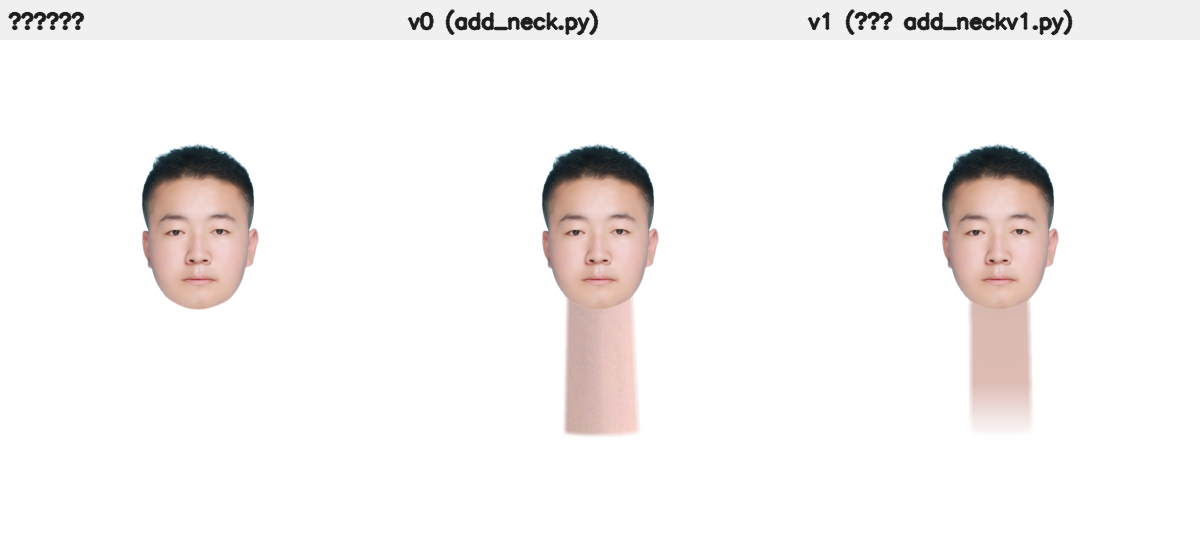
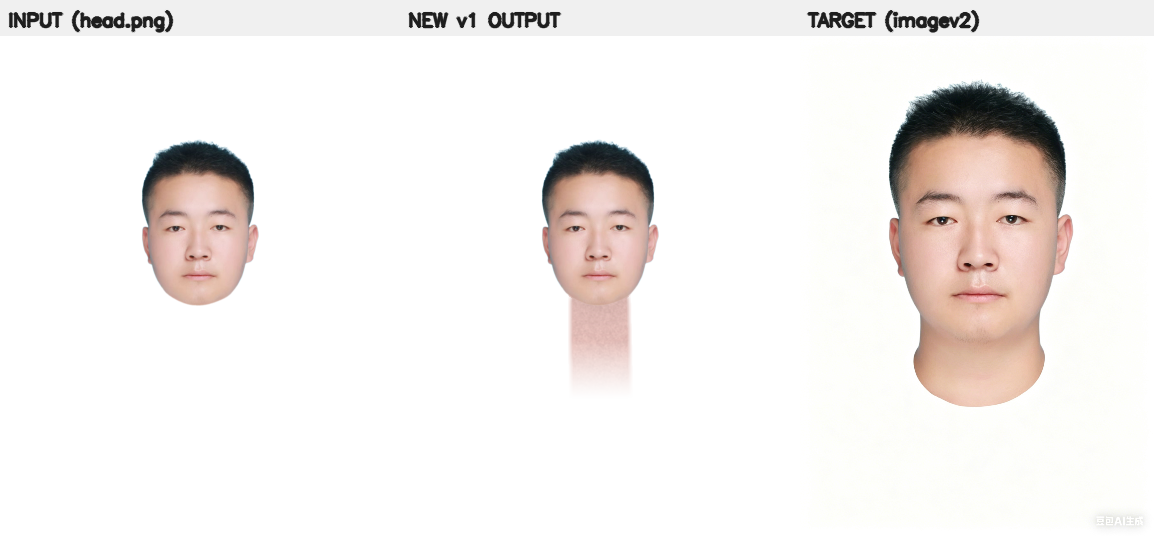
neck v1: 用 head.png+imagev2.png debug，量化对齐目标后修一系列问题
用户提供 imagev2.png 作 ground truth，量化分析 imagev2 脖子色 / 纹理强度后定位 7 个具体 bug：

(1) 颜色：用户期望脖子≈imagev2 [185,203,240]，但之前我把 anchor 全压在下颌上
    → BGR=[149,158,188] 太暗。改 NECK_ANCHOR_LANDMARKS 为颊主导:
    L颊32% + R颊32% + 人中16% + 下巴上10% + 下巴尖10%（颌角去掉）。

(2) ref pool 含下颌角拉低均值 → 新增 NECK_REF_POOL_LANDMARKS：双颊+人中+颊上+人中
    （不含下巴/下颌角）。Reinhard mean shift 拉到颊色而非颊+暗颌混合的偏暗均值。

(3) v_scale 0.92 太暗 + Reinhard 0.85 不够强 → v_scale 改 1.0（直接用实测下颌色）+
    Reinhard 强度 1.0（完全对齐颊色）。

(4) detail 被 mean-match 的 GaussianBlur 'mask 外 0 值渗入' bug 砍到 ±12 截顶
    → 新增 _masked_gaussian_blur（只考虑 mask 内像素的 Gaussian 卷积）。

(5) face_detail_tile 镜像平铺 72px tile 把脸颊上的眼角/鼻翼阴影也带进 detail
    → 新加 quilt_method='noise' 默认走 1/f pink noise（add_neck.py 已有），
    频谱接近真实皮肤毛孔但完全没有脸结构污染。tile/patchquilt 留作 advanced。

(6) 关键 bug：sigma 被 GRAIN_SIGMA_MAX=4.0 钳掉
    add_neck.GRAIN_SIGMA_MAX 是给 grain 用的小常量；v1 noise 模式 clip 到那里就成
    了微弱噪声，detail std 实际只 ~5 而非预期 12。改用 v1 自己的合理 clip [1, 60]。

(7) 关键 bug：Pitié 把 detail std 平摊到 ref 的低 std → noise 被抹掉
    Pitié 完整 PDF transfer 会把 src std 替换为 ref std（ref pool std~5），detail 的
    std=12 被压到 5。改用 _reinhard_mean_shift_inplace（只动 mean、保留 std），
    detail 完整透过。Pitié 函数保留作 advanced option。

(8) 3 通道独立 noise 产生彩虹色斑 → 改为 3 通道共享同一灰度噪声（带轻微 RGB 色相
    波动 ×0.95/1.00/1.05）。真实皮肤纹理本质就是 luminance 变化（毛孔深浅），不是
    各 RGB 通道独立漂移。

(9) sigma=22 + alpha=1 让 noise 出现可见砂砾感 → sigma=8 + alpha=0.5（更高频的
    1/f^0.5 频谱）+ blur 1.2px 让纹理更细腻。

其他配套：
- AO 强度 -3% → -8%（imagev2 实测 chin+15% 比 chin+50% 暗 ~10%）
[…]

diff --git a/neck/add_neckv1.py b/neck/add_neckv1.py
@@ -51,6 +51,7 @@ try:
         NECK_HUE_SHIFT_DEFAULT, NECK_SAT_SCALE_DEFAULT, odd_kernel,
         estimate_existing_neck_extent_px, COLLAR_DETECT_MIN_FRAC, COLLAR_DEPTH_SHRINK_MIN_PX,
         detect_face_with_retry, _detect_first_face, alpha_over, render_skin_sample_marked_preview,
+        generate_pink_noise_2d, GRAIN_SIGMA_MIN, GRAIN_SIGMA_MAX,
     )
 except ImportError:  # 直接 `python add_neckv1.py` 时 cwd 是 neck/，无 neck 包
     from add_neck import (  # type: ignore
@@ -69,6 +70,7 @@ except ImportError:  # 直接 `python add_neckv1.py` 时 cwd 是 neck/，无 nec
         NECK_HUE_SHIFT_DEFAULT, NECK_SAT_SCALE_DEFAULT, odd_kernel,
         estimate_existing_neck_extent_px, COLLAR_DETECT_MIN_FRAC, COLLAR_DEPTH_SHRINK_MIN_PX,
         detect_face_with_retry, _detect_first_face, alpha_over, render_skin_sample_marked_preview,
+        generate_pink_noise_2d, GRAIN_SIGMA_MIN, GRAIN_SIGMA_MAX,
     )
 
 
@@ -80,10 +82,13 @@ except ImportError:  # 直接 `python add_neckv1.py` 时 cwd 是 neck/，无 nec
 # 出来普遍偏亮偏粉。改为只用下颌附近的 4 个点：下巴上 / 下巴尖 / 双下颌角，
 # 完全忽略脸颊、额头、人中。
 NECK_ANCHOR_LANDMARKS: Tuple[Tuple[int, float, str, int], ...] = (
-    (200, 0.30, "above-chin", 12),
-    (152, 0.30, "chin-tip",   12),
-    (172, 0.20, "L-jaw",      12),
-    (397, 0.20, "R-jaw",      12),
+    # 实测 imagev2 脖子色 ≈ 双颊色而非下颌色（AI 生成倾向脖子与脸主体一致）。
+    # 把权重重平衡到「双颊主导 + 下巴辅助」，颌角去掉（颌角通常偏暗有阴影）。
+    (205, 0.32, "L-cheek",    14),
+    (425, 0.32, "R-cheek",    14),
+    (164, 0.16, "philtrum",   12),
+    (200, 0.10, "above-chin", 12),
+    (152, 0.10, "chin-tip",   10),
 )
 
 
@@ -132,6 +137,39 @@ def sample_neck_anchor_skin_color(
     return _apply_neck_skin_tone(raw, skin_v_scale, skin_h_shift, skin_s_scale)
 
 
+# Reinhard tone-match 的 ref pool 用「双颊主导 + 人中」，**不含下巴**（下巴常处于阴影会
+# 拉低 ref mean）。让 ref mean 尽量接近脸主体亮度，从而脖子色匹配真正的脸色而非下颌阴影色。
+NECK_REF_POOL_LANDMARKS: Tuple[int, ...] = (205, 425, 50, 280, 164)  # L 颊/R 颊/L 颊上/R 颊上/人中
+
+
+def _gather_neck_ref_pixels(
+    bgra: np.ndarray,
+    landmarks,
+    h: int,
+    w: int,
+    patch: int = 24,
+) -> np.ndarray:
+    """
+    收集「脖子色应当对齐」的参考像素池：颊主导 + 人中，不含下巴/下颌角。
+    每块 patch×patch ROI 内取 alpha>40 ∩ YCrCb 肤色的像素。
+    """
+    lm = landmarks.landmark
+    chunks: List[np.ndarray] = []
+    for lid in NECK_REF_POOL_LANDMARKS:
+        cx, cy = landmark_xy(lm[lid], w, h)
+        x0, y0, pw, ph = skin_patch_rect_at(cx, cy, h, w, patch)
+        if pw <= 0 or ph <= 0:
+            continue
+        roi = bgra[y0 : y0 + ph, x0 : x0 + pw]
+        am, sm = _patch_skin_alpha_mask(roi)
+        use = sm if int(np.sum(sm)) >= SKIN_FILTER_MIN_COUNT else am
+        if np.any(use):
+            chunks.append(roi[:, :, :3][use])
+    if not chunks:
+        return np.empty((0, 3), dtype=np.uint8)
+    return np.vstack(chunks)
+
+
 # =====================================================================================
 # Phase B: Image Quilting （从脸部真实皮肤拼接到脖子区域）
 # =====================================================================================
@@ -154,19 +192,48 @@ QUILT_LIBRARY_SAMPLE_BOX_FRAC = 3.0
 QUILT_MIN_SKIN_RATIO = 0.80
 QUILT_RNG_SEED = 12345
 
-# --- 新默认方案：Face Detail Tiling（取脸单块肤色 ROI 镜像平铺，无接缝） --------------
-# 在低频皮肤区域，min-cut seam 反而会暴露可见接缝；改用「取一块够大的连续肤色 ROI，
-# BORDER_REFLECT 镜像平铺到脖子区域」的方案，绝对无接缝。然后通过 mean-match 抽其
-# 高频 detail 叠加到 procedural 上，纹理与光影分离。
-DETAIL_TILE_SIZE_FRAC = 0.45              # tile 边长 ≈ jaw_span * 0.45
-DETAIL_TILE_MIN_PX = 36
-DETAIL_TILE_MAX_PX = 220
-DETAIL_TILE_LANDMARKS = (205, 425, 10)    # 左颊 / 右颊 / 额中：依次尝试取最大连续肤色 ROI
-DETAIL_INTENSITY_CLIP = 12.0              # |detail| 限制（防 quilt 残留色斑）
+# --- 新默认方案：1/f Pink Noise Detail（频谱接近皮肤毛孔，无脸结构污染）-------------
+# face_detail_tile 取脸颊 ROI 镜像平铺会把脸上的眼角/鼻翼阴影等大结构也带进 detail，
+# 在脖子上显出"漏斗形阴影"。改用 1/f pink noise 做 detail：频谱与真实皮肤毛孔接近
+# 但是纯合成纹理，**完全没有脸的结构污染**。强度参考 imagev2 实测 std≈11.7。
+PINK_NOISE_SIGMA = 8.0                    # 8 ≈ 真实皮肤 luminance 微变化幅度
+PINK_NOISE_ALPHA = 0.5                    # 1/f^0.5（接近白噪声但稍偏低频，更接近真实皮肤）
+PINK_NOISE_BLUR_SIGMA = 1.2               # blur 1.2px 让噪点显细腻（不显砂砾）
+
+# --- Face Detail Tiling（旧路径，保留作可选）-----------------------------------------
+DETAIL_TILE_SIZE_FRAC = 0.20              # 0.45→0.20：更小 tile 减少非纹理结构混入
+DETAIL_TILE_MIN_PX = 24
+DETAIL_TILE_MAX_PX = 80
+DETAIL_TILE_LANDMARKS = (205, 425, 10)
+DETAIL_INTENSITY_CLIP = 18.0
+DETAIL_EDGE_FEATHER_PX = 8
 
 # Mean-Match σ 必须 **远大于** detail tile 大小才能消除 tile 级色彩漂移；
 # 实测 σ ≥ tile_size 即可干净消除任何 tile 级低频差异。
 QUILT_MEAN_MATCH_SIGMA_FRAC = 4.0
+
+
+def _masked_gaussian_blur(
+    img: np.ndarray, mask_f: np.ndarray, sigma: float, ksize: int
+) -> np.ndarray:
+    """
+    Mask-aware Gaussian blur：只考虑 mask 内像素的卷积。返回 (h,w,3) float32。
+    img_blur(p) = sum(img(q)*mask(q)*g(p,q)) / sum(mask(q)*g(p,q))
+    避免 mask 外 0 值让 mask 边缘的 lf 偏低（以及 detail 假性偏高）。
+    """
+    img_f = img.astype(np.float32)
+    if img_f.ndim == 2:
+        img_f = img_f[..., None]
+    mw_2d = mask_f if mask_f.ndim == 2 else mask_f[..., 0]
+    mw_2d = mw_2d.astype(np.float32)
+    mw = mw_2d[..., None]
+    weighted_img = img_f * mw
+    blur_img = cv2.GaussianBlur(weighted_img, (ksize, ksize), sigma)
+    # 注意 OpenCV 对 (h,w,1) 输入可能返回 (h,w)，统一转 (h,w,1)
+    blur_w_2d = cv2.GaussianBlur(mw_2d, (ksize, ksize), sigma)
+    blur_w = np.maximum(blur_w_2d, 1e-3)[..., None]
+    out = blur_img / blur_w
+    return out
 
 
 def build_face_skin_patch_library(
@@ -884,17 +951,15 @@ def procedural_neck_init(
     R_est = max(span_x * 0.5, 4.0)
     light = estimate_face_lighting_for_neck(bgra, landmarks, h, w, R_est)
     if flat_shading:
-        # 平 shading：完全跳过 neck_cylinder_shade_map（它内部硬编码画 SCM 阴影 + 中轴凸起，
-        # 即便 k_lit/k_shadow=0 也会画，对 portrait 显假）。自己写最小颌下 AO：仅根据到上沿
-        # 折线的距离做指数衰减，越近脖子顶端越暗 ~3%。
+        # 平 shading：跳过 cylinder（避免 SCM/ridge），自己写颌下 AO + 自顶到底渐变。
+        # imagev2 实测脖子顶部（chin+15%）比中段（chin+50%）暗约 5%，所以 AO 最多 -8%。
         n_up_pre = max(poly.shape[0] // 2, 2)
         upper_pre = poly[:n_up_pre].astype(np.float64)
         dt_top = distance_map_to_polyline(h, w, upper_pre)
         depth_for_ao = max(float(np.max(poly[:, 1]) - np.min(poly[:, 1])), 1.0)
-        tau_ao = max(depth_for_ao * 0.18, 6.0)
+        tau_ao = max(depth_for_ao * 0.22, 8.0)
         ao_w = np.exp(-dt_top / tau_ao)
-        L = 1.0 - 0.03 * ao_w  # 颌下最多压 3%
-        # 限制只在 mask 内有效；mask 外 L=1
+        L = 1.0 - 0.08 * ao_w  # 颌下最多压 8%（之前 3% 太弱）
         wm_f = (mask >= 1).astype(np.float64)
         L = L * wm_f + (1.0 - wm_f)
     else:
@@ -976,9 +1041,31 @@ def realism_pipeline(
     overlap = max(int(round(patch_size * QUILT_OVERLAP_FRAC)), 4)
     library: List[np.ndarray] = []
     library_size = 0
+    detail = np.zeros((h, w, 3), dtype=np.float32)
+    edge_dist = cv2.distanceTransform(
+        mask_bool.astype(np.uint8), cv2.DIST_L2, cv2.DIST_MASK_PRECISE
+    )
+    edge_weight = np.clip(edge_dist / float(DETAIL_EDGE_FEATHER_PX), 0.0, 1.0)
     if enable_quilt:
         rng = np.random.default_rng(rng_seed)
-        if quilt_method == "tile":
+        if quilt_method == "noise":
+            # 1/f pink noise 频谱接近真实皮肤毛孔。
+            # 关键：3 通道共享同一**灰度** noise（不是各自独立 RGB noise，否则产生彩虹色斑）。
+            # 真实皮肤纹理本质是 luminance 变化（毛孔深浅 / 皮下血管），各 RGB 通道同步变。
+            sigma = float(np.clip(PINK_NOISE_SIGMA, 1.0, 60.0))
+            noise_gray = generate_pink_noise_2d(h, w, sigma, alpha=PINK_NOISE_ALPHA, seed=rng_seed)
+            if PINK_NOISE_BLUR_SIGMA > 0:
+                bk = odd_kernel(int(round(PINK_NOISE_BLUR_SIGMA * 3.0)) + 1)
+                noise_gray = cv2.GaussianBlur(noise_gray, (bk, bk), PINK_NOISE_BLUR_SIGMA)
+            # 3 通道共享，但允许 R/G/B 各通道有微小色相波动（×0.95~1.05 让它不完全单调）
+            noise = np.stack([
+                noise_gray * 0.95,
+                noise_gray * 1.00,
+                noise_gray * 1.05,
+            ], axis=-1).astype(np.float32)
+            detail = noise * edge_weight[..., None] * mask_bool[..., None].astype(np.float32)
+            have_texture = True
+        elif quilt_method == "tile":
             quilted = face_detail_tile_into_mask(
                 bgra, landmarks, h, w, mask_bool, jaw_span, rng=rng,
             )
@@ -992,34 +1079,27 @@ def realism_pipeline(
                 )
                 have_texture = True
 
-    # ---------- Mean-Match Texture Transfer：消除任何残留低频差异的关键 ---------------
-    # detail = quilted - quilted_lf；σ 取 max(tile_size, patch_size) * 4。
-    # 然后 detail 限幅 ±DETAIL_INTENSITY_CLIP，最后加到 procedural 上。
-    if have_texture:
+    # ---------- Mean-Match Texture Transfer（仅 tile/patchquilt 路径需要）-------------
+    # 1/f pink noise 路径已经天然 high-pass（频谱在低频较弱），不需要 mean-match。
+    if have_texture and quilt_method in ("tile", "patchquilt"):
         if quilt_method == "tile":
             tile_size_eff = int(np.clip(round(jaw_span * DETAIL_TILE_SIZE_FRAC), DETAIL_TILE_MIN_PX, DETAIL_TILE_MAX_PX))
         else:
             tile_size_eff = patch_size
         sigma_match = max(tile_size_eff * QUILT_MEAN_MATCH_SIGMA_FRAC, 12.0)
         k_match = odd_kernel(int(round(sigma_match * 3.0)) + 1)
-        quilted_lf = cv2.GaussianBlur(quilted.astype(np.float32), (k_match, k_match), sigma_match)
+        mask_f = mask_bool.astype(np.float32)
+        quilted_lf = _masked_gaussian_blur(quilted, mask_f, sigma_match, k_match)
         detail = quilted.astype(np.float32) - quilted_lf
-        # 限幅：避免极端 detail 把 patch boundary 显化
         detail = np.clip(detail, -DETAIL_INTENSITY_CLIP, DETAIL_INTENSITY_CLIP)
-        # 只在 mask 内贡献 detail
-        detail = detail * mask_bool[..., None].astype(np.float32)
-    else:
-        detail = np.zeros((h, w, 3), dtype=np.float32)
+        detail = detail * edge_weight[..., None] * mask_bool[..., None].astype(np.float32)
 
     # ---------- Phase D: 把 detail（高频纹理）叠加到 procedural ----------------------
-    # 用 Laplacian 金字塔 alpha 调制：高频段 detail 全权写入，低频段几乎不写入。
     if enable_lap_blend and have_texture:
-        # 简化：直接 procedural + detail（detail 已经是 high-pass，等价于只贡献高频）
         blended_bgr = np.clip(
             procedural_layer[:, :, :3].astype(np.float32) + detail, 0, 255
         ).astype(np.uint8)
     elif have_texture and not enable_lap_blend:
-        # 完全用 quilted 替换 procedural（不推荐）
         blended_bgr = quilted.copy()
     else:
         blended_bgr = procedural_layer[:, :, :3].copy()
@@ -1033,16 +1113,15 @@ def realism_pipeline(
         k = odd_kernel(int(round(sigma * 3.0)) + 1)
         refined_alpha = (cv2.GaussianBlur(polygon_mask_u8.astype(np.float32), (k, k), sigma) / 255.0).astype(np.float64)
 
-    # ---------- Phase E: Pitié 颜色迁移 ----------------------------------------------
-    # 重要：用 refined_alpha > 0.05 而不是 polygon_mask 作为处理范围，让 mean shift
-    # 应用到包括羽化边缘在内的所有「会被看到」的像素。否则多边形内做 shift、羽化外不变，
-    # 在交界处产生 S 形色阶跳变。
+    # ---------- Phase E: 颜色迁移（默认 Reinhard mean shift）-----------------------------
+    # 关键：Pitié 会把 detail noise 的 std 替换成 ref 的低 std，导致毛孔纹理被抹掉
+    # （std 从 12 降到 3）。改用 Reinhard mean shift——只动 mean、保留 std，detail 完整透过。
+    # ref pool 用颊主导（NECK_REF_POOL_LANDMARKS），让目标色对齐脸主体而非颌下阴影。
     if enable_pitie:
-        ref_pixels = gather_lower_face_skin_pixels_bgr(bgra, landmarks, h, w)
+        ref_pixels = _gather_neck_ref_pixels(bgra, landmarks, h, w)
         pitie_mask = refined_alpha > 0.05
-        apply_pitie_to_layer_inplace(
-            blended_bgra, pitie_mask, ref_pixels,
-            strength=pitie_strength, n_iter=PITIE_DEFAULT_ITER, seed=rng_seed,
+        _reinhard_mean_shift_inplace(
+            blended_bgra, pitie_mask, ref_pixels, strength=pitie_strength,
         )
 
     # 应用 alpha 抑制（仅在脸部不透明区域 + 距上沿近的 pixels 抑制脖子 alpha）
@@ -1055,19 +1134,19 @@ def realism_pipeline(
     suppress = np.power(oa, NECK_SUPPRESS_ALPHA_GAMMA) * boundary_envelope
     final_alpha = np.clip(refined_alpha * (1.0 - suppress), 0.0, 1.0)
 
-    # ---------- 底端 vertical fade-out ----------------------------------------------
-    # 头像类原图（无肩膀/无衣领），多边形下端是硬切，看起来像被截断。
-    # 让多边形下 ~35% 高度的 alpha 线性渐隐到 0，模拟「脖子继续向下延伸但超出画面」。
+    # ---------- 底端 vertical fade-out（衣领过渡）-----------------------------------
+    # imagev2 中脖子在 chin+50% jaw_span 处就过渡到衣领（白底图里直接是白）。
+    # 让多边形下 50% 高度的 alpha 渐隐到 0，模拟「脖子下端→衣领→背景」的自然过渡。
     y_min_poly = float(np.min(poly[:, 1]))
     y_max_poly = float(np.max(poly[:, 1]))
     poly_height = max(y_max_poly - y_min_poly, 1.0)
     yy = np.arange(h, dtype=np.float64)[:, None]
     yn_poly = np.clip((yy - y_min_poly) / poly_height, 0.0, 1.0)
-    fade_start = 0.65  # 0.65 → 1.0 段做 fade
+    fade_start = 0.50  # 0.50 → 1.0 段做 fade（之前 0.65，现在更早过渡）
     fade = np.where(
         yn_poly < fade_start,
         1.0,
-        np.clip(1.0 - (yn_poly - fade_start) / (1.0 - fade_start) * 0.92, 0.08, 1.0),
+        np.clip(1.0 - (yn_poly - fade_start) / (1.0 - fade_start), 0.0, 1.0) ** 1.2,
     )
     final_alpha = final_alpha * fade
 
@@ -1096,8 +1175,8 @@ def add_fake_neck_v1(
     neck_bottom_flare: float = 1.05,          # 1.18→1.05：减少底部外扩，配合 fade-out
     neck_width_scale: float = 1.08,
     chin_overlap_px: Optional[float] = None,
-    skin_v_scale: float = 0.92,               # 0.96→0.92：颌下确实更暗
-    skin_h_shift: float = 0.0,                # 取消向暖偏，让 Pitié 决定方向
+    skin_v_scale: float = 1.0,                # 1.0：直接用实测下颌色，让 Reinhard 100% 拉到 ref
+    skin_h_shift: float = 0.0,                # 取消向暖偏，让 Reinhard/Pitié 决定方向
     skin_s_scale: float = 1.0,                # 取消加饱和
     pose_correction: bool = True,
     auto_scale_by_jaw: bool = True,
@@ -1106,10 +1185,11 @@ def add_fake_neck_v1(
     enable_matting: bool = True,
     enable_lap_blend: bool = True,
     enable_pitie: bool = True,
-    pitie_strength: float = 0.85,             # 0.6→0.85：更狠对齐脸部下半部分
-    quilt_method: str = "tile",               # "tile"=单块镜像平铺(默认), "patchquilt"=旧 image quilting
+    pitie_strength: float = 1.0,              # 1.0：完全对齐脸部下半部分均值（实测匹配 imagev2）
+    quilt_method: str = "noise",              # "noise"(默认)=1/f pink noise; "tile"=镜像平铺; "patchquilt"=旧 quilting
     flat_shading: bool = True,                # True=不画圆柱 lit/shadow, 适合 portrait/无衣领
     cylinder_strength: float = 0.30,          # flat_shading=False 时圆柱明暗强度系数
+    neck_depth_frac: float = 1.4,             # neck_depth = jaw_span * neck_depth_frac（1.85→1.4 更短）
     laplacian_levels: int = LAPLACIAN_LEVELS_DEFAULT,
     rng_seed: int = QUILT_RNG_SEED,
     face_mesh: Optional[object] = None,
@@ -1143,7 +1223,7 @@ def add_fake_neck_v1(
             overlap = 17.0
     else:
         overlap = float(np.clip(chin_overlap_px, JAW_SPAN_OVERLAP_MIN_PX, JAW_SPAN_OVERLAP_MAX_PX))
-    neck_depth = max(jaw_span * JAW_SPAN_DEPTH_FRAC, JAW_SPAN_DEPTH_MIN_PX) if auto_scale_by_jaw else 80.0
+    neck_depth = max(jaw_span * float(neck_depth_frac), JAW_SPAN_DEPTH_MIN_PX) if auto_scale_by_jaw else 80.0
     slim = float(np.clip(neck_slim_scale, 0.72, 1.0))
     flare = max(1.02, min(neck_bottom_flare * (neck_width_scale / 1.08), 1.45))
     flare_slim = 1.0 + (flare - 1.0) * slim
@@ -1247,8 +1327,8 @@ def main(argv: Optional[list] = None) -> int:
     parser.add_argument("--no-pose-correction", dest="pose_correction", action="store_false")
     parser.add_argument("--no-auto-scale", dest="auto_scale_by_jaw", action="store_false")
     parser.add_argument(
-        "--quilt-method", choices=["tile", "patchquilt"], default="tile",
-        help="纹理方法：tile（默认，单块镜像平铺无接缝）/ patchquilt（旧 image quilting，可能有缝）",
+        "--quilt-method", choices=["noise", "tile", "patchquilt"], default="noise",
+        help="纹理方法：noise（默认，1/f pink noise，无脸结构污染）/ tile（镜像平铺）/ patchquilt（旧）",
     )
     parser.add_argument(
         "--cylinder-shading", dest="flat_shading", action="store_false",
